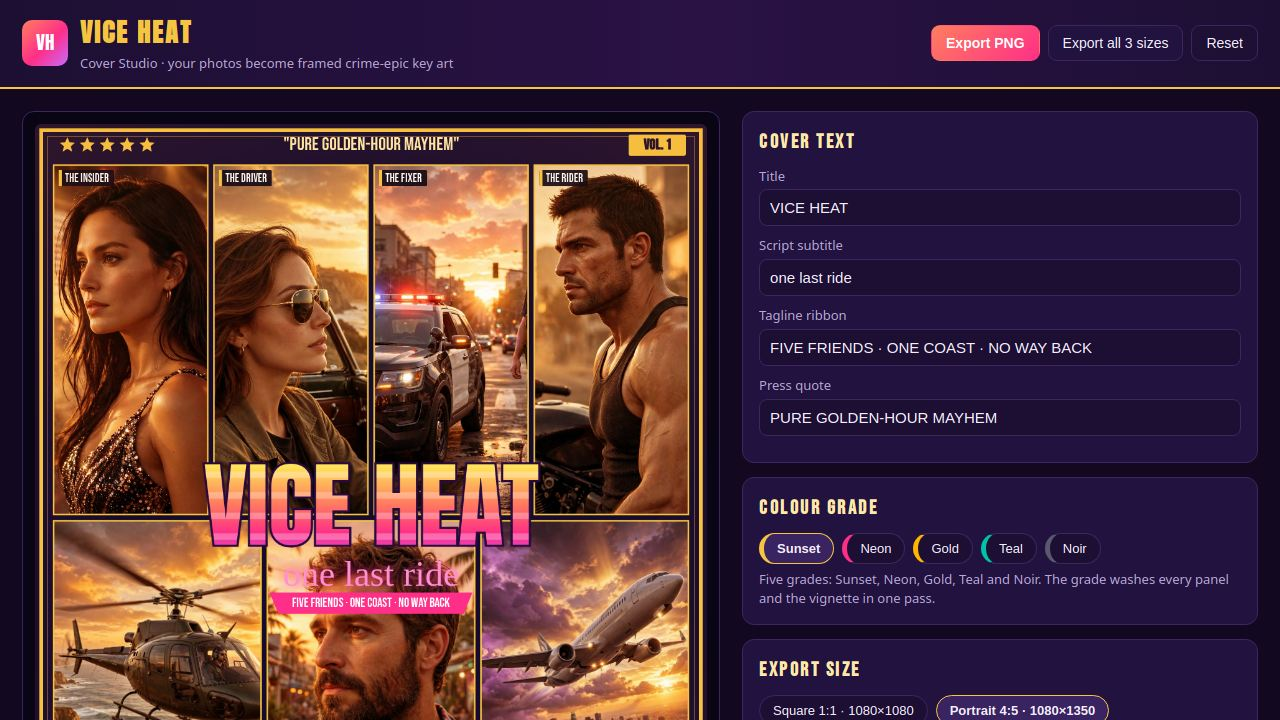
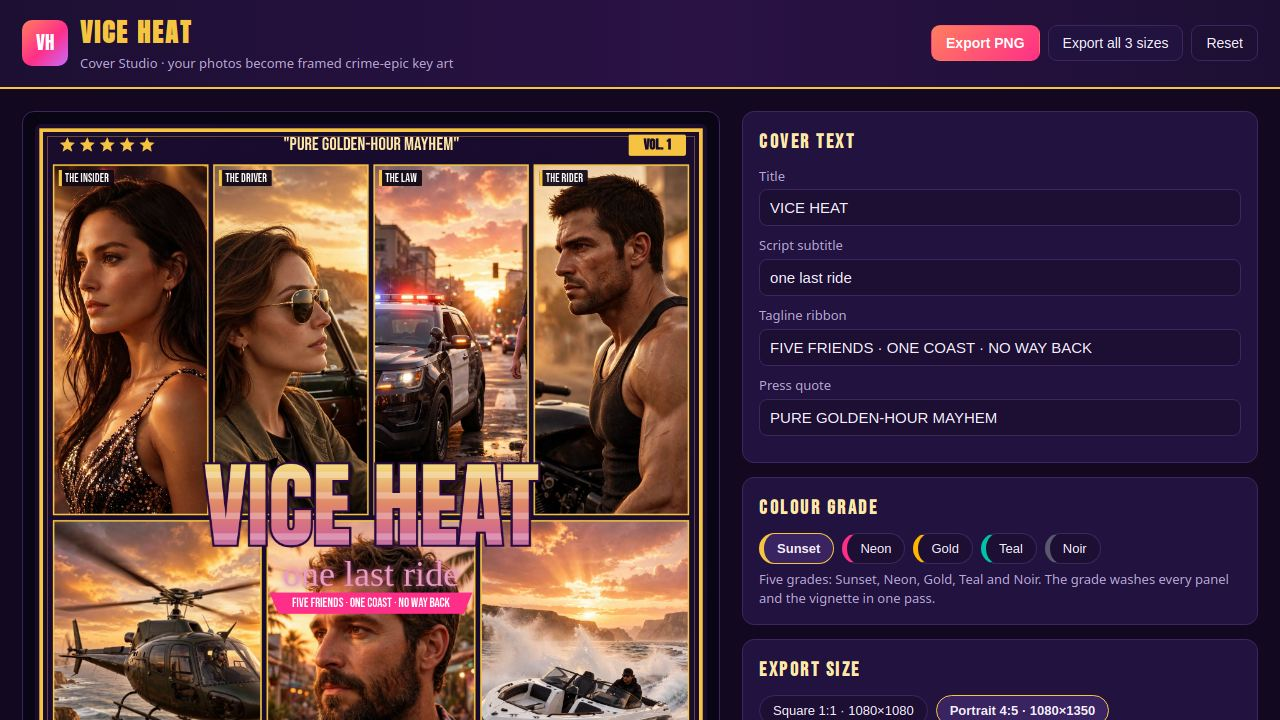
VICE HEAT rebuild #9: toned-down saturation, smooth like top 1-5, wide bottom-bar fix, airplane dropped for speedboat, tags renamed to match pictures

diff --git a/app/src/cover.js b/app/src/cover.js
@@ -5,14 +5,16 @@
 // Layout: classic collage grid — four panels on top, three below, big
 // striped title in the centre overlapping the row seam. The seven panels
 // mix four character portraits with three action scenes (police, helicopter,
-// airplane) so no two neighbours face or read the same way.
+// speedboat) so no two neighbours face or read the same way.
 
 export const GRADES = [
   // Sunset is the default grade and the poster's whole tone (Sundown
-  // Racket style): a strong warm wash so every panel reads golden-hour.
-  { id: 'sunset', name: 'Sunset', tint: '#ff7a18', alpha: 0.2, warm: 0.3 },
+  // Racket style): a LIGHT warm touch, not a flood. The photos are
+  // already golden-hour; the grade just warms them a little. Rebuild #9
+  // toned this down — the old 0.20/0.30 wash read as cheap CGI.
+  { id: 'sunset', name: 'Sunset', tint: '#ff7a18', alpha: 0.1, warm: 0.12 },
   { id: 'neon', name: 'Neon', tint: '#ff2e88', alpha: 0.18, warm: 0.08 },
-  { id: 'gold', name: 'Gold', tint: '#ffb400', alpha: 0.2, warm: 0.3 },
+  { id: 'gold', name: 'Gold', tint: '#ffb400', alpha: 0.12, warm: 0.14 },
   { id: 'teal', name: 'Teal', tint: '#00c2a8', alpha: 0.16, warm: 0.0 },
   { id: 'noir', name: 'Noir', tint: '#5a5a6e', alpha: 0.28, warm: 0.0 },
 ];
@@ -20,15 +22,19 @@ export const GRADES = [
 // The seven panels of a VICE HEAT cover. `tag` is the name chip drawn on
 // the panel; `photo` is the key into the images map; `focus` is the
 // face-aware anchor (0..1) used by the cover-fit crop. Scene panels
-// (helicopter, airplane) use a centre focus — there is no face to keep.
+// (helicopter, speedboat) use a centre focus — there is no face to keep.
+// Tags match the picture: THE LAW is the police scene, THE PILOT the
+// helicopter, THE CAPTAIN the speedboat (rebuild #9: the old FIXER/BOSS/
+// LOOKOUT names did not match their pictures, and the airplane panel was
+// dropped — helicopter + airplane together were redundant flying vehicles).
 export const PANELS = [
   { key: 'hero', tag: 'THE DRIVER', focus: [0.5, 0.32] },
   { key: 'insider', tag: 'THE INSIDER', focus: [0.5, 0.3] },
-  { key: 'boss', tag: 'THE BOSS', focus: [0.5, 0.45] },
+  { key: 'boss', tag: 'THE PILOT', focus: [0.5, 0.45] },
   { key: 'rider', tag: 'THE RIDER', focus: [0.5, 0.3] },
   { key: 'courier', tag: 'THE COURIER', focus: [0.5, 0.3] },
-  { key: 'fixer', tag: 'THE FIXER', focus: [0.5, 0.35] },
-  { key: 'lookout', tag: 'THE LOOKOUT', focus: [0.5, 0.5] },
+  { key: 'fixer', tag: 'THE LAW', focus: [0.5, 0.35] },
+  { key: 'lookout', tag: 'THE CAPTAIN', focus: [0.5, 0.5] },
 ];
 
 export const DEFAULT_STATE = {
@@ -117,6 +123,10 @@ export function drawCover(ctx, W, H, images, opts = {}) {
   const s = { ...DEFAULT_STATE, ...opts };
   const grade = GRADES.find((g) => g.id === s.grade) || GRADES[0];
   const u = W / 1080; // unit: 1 at 1080 wide
+  // Vertical unit: 1 at 1080 tall. u scales with WIDTH, so on a 16:9
+  // canvas (u = 1.78) every u-based vertical offset overflows the bottom
+  // bar past the frame. The bottom bar measures vertically in v.
+  const v = H / 1080;
 
   // Backdrop: deep purple night + gold frame.
   ctx.fillStyle = '#160a2e';
@@ -158,7 +168,7 @@ export function drawCover(ctx, W, H, images, opts = {}) {
   // Top row: four equal panels. Bottom row: three equal panels. No panel
   // dominates; the title sits in the middle overlapping the row boundary.
   // Four panels are character portraits facing different directions, three
-  // are action scenes (police, helicopter, airplane) — the mix keeps the
+  // are action scenes (police, helicopter, speedboat) — the mix keeps the
   // grid from reading as seven identical headshots.
   const gridX = 30 * u;
   const gridW = W - 60 * u;
@@ -195,10 +205,11 @@ export function drawCover(ctx, W, H, images, opts = {}) {
       ctx.fillStyle = '#2a1548';
       ctx.fillRect(p.x, p.y, p.w, p.h);
     }
-    // grade wash over the photo
+    // grade wash over the photo — a light touch (rebuild #9: the old
+    // alpha+0.25 flood turned every panel into a neon orange wash).
     ctx.globalCompositeOperation = 'soft-light';
     ctx.fillStyle = grade.tint;
-    ctx.globalAlpha = grade.alpha + 0.25;
+    ctx.globalAlpha = grade.alpha + 0.1;
     ctx.fillRect(p.x, p.y, p.w, p.h);
     ctx.globalCompositeOperation = 'source-over';
     ctx.globalAlpha = 1;
@@ -233,12 +244,14 @@ export function drawCover(ctx, W, H, images, opts = {}) {
   ctx.textAlign = 'center';
   ctx.textBaseline = 'middle';
   ctx.font = `${titlePx}px 'Anton', sans-serif`;
-  // Chrome gradient fill: yellow -> orange -> pink -> purple.
+  // Chrome gradient fill: yellow -> orange -> pink -> purple, MUTED
+  // (rebuild #9: the old neon stops read as cheap CGI; these keep the
+  // same hues at lower saturation, smooth like the top 1-5 entries).
   const tg = ctx.createLinearGradient(0, titleY - titlePx * 0.55, 0, titleY + titlePx * 0.55);
-  tg.addColorStop(0, '#ffe259');
-  tg.addColorStop(0.35, '#ff7e5f');
-  tg.addColorStop(0.65, '#ff2e88');
-  tg.addColorStop(1, '#c86bff');
+  tg.addColorStop(0, '#f2d67c');
+  tg.addColorStop(0.35, '#e08a68');
+  tg.addColorStop(0.65, '#d2698f');
+  tg.addColorStop(1, '#a98fd0');
   ctx.lineWidth = Math.max(2, 7 * u);
   ctx.strokeStyle = '#2a0a3e';
   ctx.strokeText(s.title, W / 2, titleY);
@@ -272,9 +285,11 @@ export function drawCover(ctx, W, H, images, opts = {}) {
   const subY = titleY + titlePx * 0.62;
   const subPx = fitFont(ctx, s.subtitle, "'Pacifico', cursive", gridW * 0.6, 58 * u);
   ctx.font = `${subPx}px 'Pacifico', cursive`;
-  ctx.fillStyle = '#ff8fd1';
-  ctx.shadowColor = '#ff2e88';
-  ctx.shadowBlur = 18 * u;
+  // Muted rose, soft glow (rebuild #9: the old hot-pink + strong glow
+  // was another neon-CGI cue).
+  ctx.fillStyle = '#e89ec4';
+  ctx.shadowColor = '#c65a8a';
+  ctx.shadowBlur = 10 * u;
   ctx.fillText(s.subtitle, W / 2, subY);
   ctx.shadowBlur = 0;
 
@@ -296,43 +311,49 @@ export function drawCover(ctx, W, H, images, opts = {}) {
   ctx.fillText(s.tagline, W / 2, ribY + 1 * u);
 
   // ---- bottom bar: COMING SOON + billing + barcode + gold seal
-  const botY = gridY + gridH + 26 * u;
+  // Rebuild #9: all VERTICAL measurements use v (H-based). The old code
+  // measured them in u (W-based), so on a 16:9 canvas (u = 1.78) the
+  // billing second line and the barcode box ran past the bottom edge.
+  // Horizontal positions still use u; the bar now ends inside the frame
+  // at every export size (verified at 1920x1080, 1080x1080, 1080x1350).
+  const botY = gridY + gridH + 26 * v;
   ctx.textAlign = 'left';
   ctx.fillStyle = '#ff5fa2';
-  const csPx = fitFont(ctx, 'COMING SOON', "'Anton', sans-serif", gridW * 0.3, 34 * u);
+  const csPx = fitFont(ctx, 'COMING SOON', "'Anton', sans-serif", gridW * 0.3, 34 * v);
   ctx.font = `${csPx}px 'Anton', sans-serif`;
-  ctx.fillText('COMING SOON', gridX, botY + 10 * u);
+  ctx.fillText('COMING SOON', gridX, botY + 10 * v);
   ctx.fillStyle = '#e8dcc8';
   ctx.textAlign = 'center';
-  ctx.font = `${Math.max(9, 13.5 * u)}px 'Bebas Neue', sans-serif`;
-  ctx.fillText('A SUNSET PICTURES PRODUCTION · STARRING YOU', W / 2, botY + 2 * u);
-  ctx.fillText('SHOT ON YOUR OWN CAMERA · GRADED BY HAND', W / 2, botY + 20 * u);
+  ctx.font = `${Math.max(9, 13.5 * v)}px 'Bebas Neue', sans-serif`;
+  ctx.fillText('A SUNSET PICTURES PRODUCTION · STARRING YOU', W / 2, botY + 2 * v);
+  ctx.fillText('SHOT ON YOUR OWN CAMERA · GRADED BY HAND', W / 2, botY + 20 * v);
   // Barcode: deterministic bars from the seed. It sits LEFT of the gold
   // seal with a clear gap — the old position overlapped the seal, which
   // covered the barcode's right end.
   const rng = mulberry32(s.seed);
   const bcX = W - gridX - 250 * u;
   const bcW = 110 * u;
-  const bcH = 34 * u;
+  const bcH = 34 * v;
   ctx.fillStyle = '#ffffff';
-  ctx.fillRect(bcX - 6 * u, botY - 8 * u, bcW + 12 * u, bcH + 16 * u);
+  ctx.fillRect(bcX - 6 * u, botY - 8 * v, bcW + 12 * u, bcH + 16 * v);
   ctx.fillStyle = '#111111';
   let bx = bcX;
   while (bx < bcX + bcW) {
     const bw = (1 + Math.floor(rng() * 4)) * u;
-    if (rng() > 0.45) ctx.fillRect(bx, botY - 4 * u, bw, bcH);
+    if (rng() > 0.45) ctx.fillRect(bx, botY - 4 * v, bw, bcH);
     bx += bw + (1 + Math.floor(rng() * 3)) * u;
   }
   ctx.fillStyle = '#111111';
-  ctx.font = `${Math.max(8, 11 * u)}px 'Bebas Neue', sans-serif`;
+  ctx.font = `${Math.max(8, 11 * v)}px 'Bebas Neue', sans-serif`;
   ctx.textAlign = 'center';
-  ctx.fillText('0 10472 85991 8', bcX + bcW / 2, botY + bcH + 4 * u);
+  ctx.fillText('0 10472 85991 8', bcX + bcW / 2, botY + bcH + 4 * v);
   // Gold seal: starburst circle, bottom-right corner. Kept clear of the
   // barcode (which now sits 250u from the right edge): the seal spans
   // roughly W-122u..W-26u, the barcode ends at W-250u+110u = W-140u.
+  // Rebuild #9: the seal is sized in v like the rest of the bottom bar.
   const sealCx = W - 74 * u;
-  const sealCy = H - 74 * u;
-  const sealR = 48 * u;
+  const sealCy = H - 74 * v;
+  const sealR = 48 * v;
   ctx.save();
   ctx.translate(sealCx, sealCy);
   ctx.beginPath();
@@ -348,7 +369,7 @@ export function drawCover(ctx, W, H, images, opts = {}) {
   ctx.fillStyle = '#f5c542';
   ctx.fill();
   ctx.strokeStyle = '#8a6d1f';
-  ctx.lineWidth = 2 * u;
+  ctx.lineWidth = 2 * v;
   ctx.stroke();
   ctx.beginPath();
   ctx.arc(0, 0, sealR * 0.68, 0, Math.PI * 2);
@@ -356,18 +377,19 @@ export function drawCover(ctx, W, H, images, opts = {}) {
   ctx.stroke();
   ctx.fillStyle = '#3a2a00';
   ctx.textAlign = 'center';
-  ctx.font = `bold ${Math.max(9, 13 * u)}px 'Anton', sans-serif`;
-  ctx.fillText('ORIGINAL', 0, -8 * u);
-  ctx.fillText('COVER ART', 0, 8 * u);
-  star(ctx, 0, 20 * u, 7 * u, 3 * u);
+  ctx.font = `bold ${Math.max(9, 13 * v)}px 'Anton', sans-serif`;
+  ctx.fillText('ORIGINAL', 0, -8 * v);
+  ctx.fillText('COVER ART', 0, 8 * v);
+  star(ctx, 0, 20 * v, 7 * v, 3 * v);
   ctx.fillStyle = '#3a2a00';
   ctx.fill();
   ctx.restore();
 
-  // ---- warm vignette for the golden-hour grade
+  // ---- warm vignette for the golden-hour grade — halved in rebuild #9
+  // (the old warm*0.5 orange ring was part of the CGI look).
   const vg = ctx.createRadialGradient(W / 2, H / 2, H * 0.3, W / 2, H / 2, H * 0.75);
   vg.addColorStop(0, 'rgba(255,150,50,0)');
-  vg.addColorStop(1, `rgba(255,110,20,${grade.warm * 0.5})`);
+  vg.addColorStop(1, `rgba(255,110,20,${grade.warm * 0.25})`);
   ctx.fillStyle = vg;
   ctx.fillRect(0, 0, W, H);
 }
